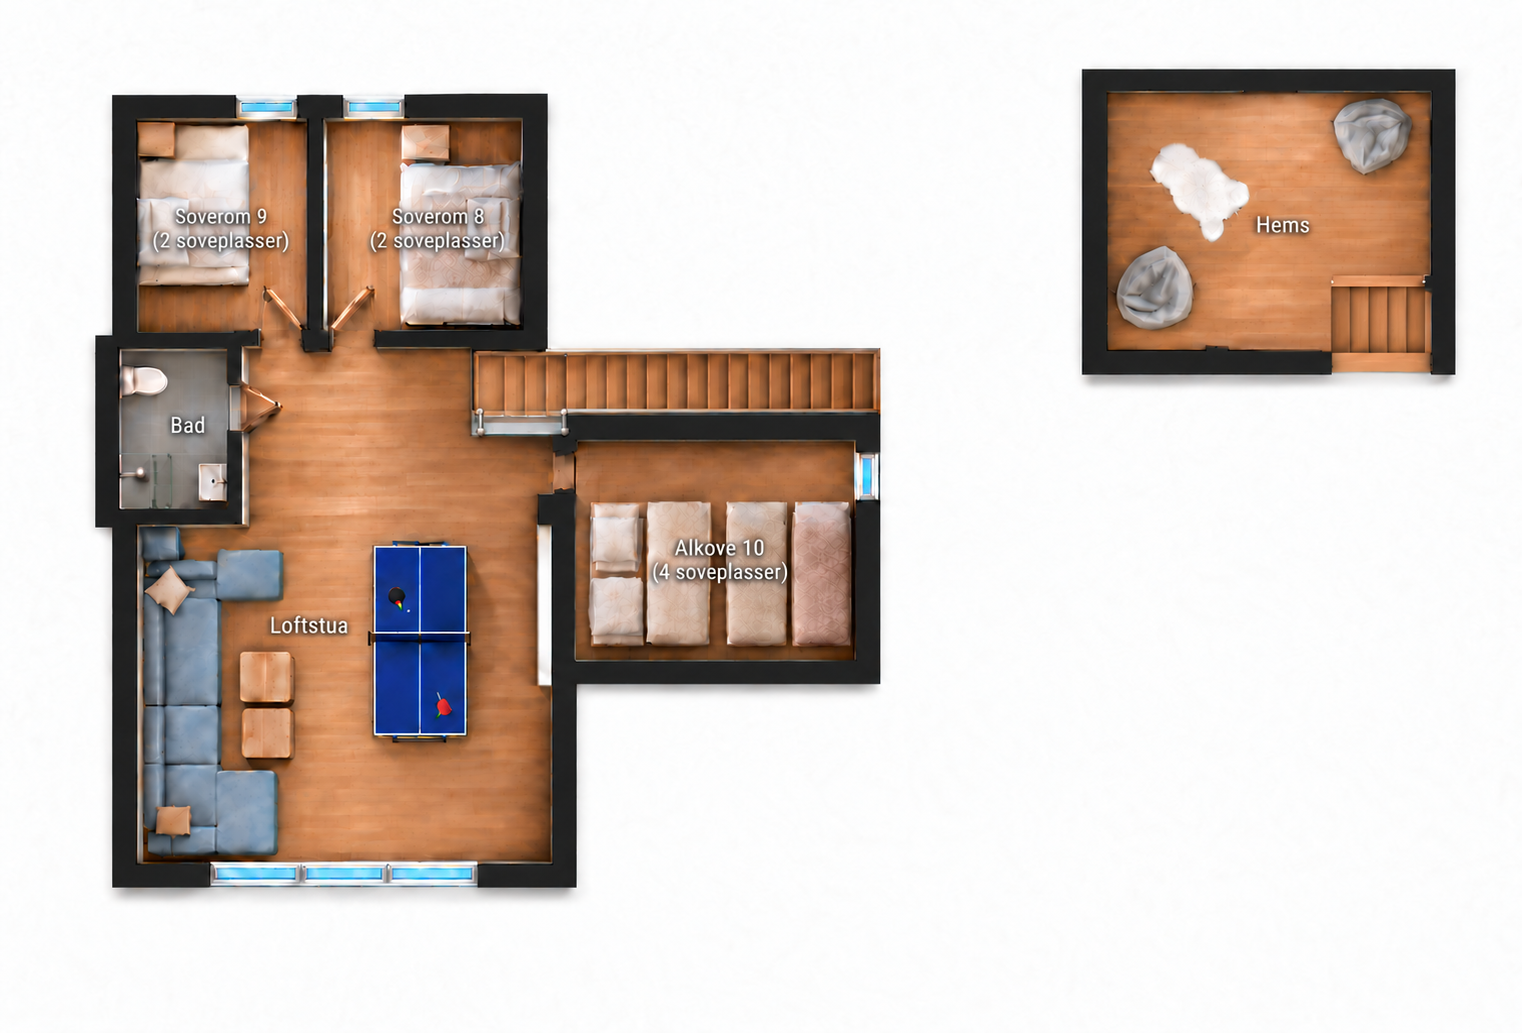
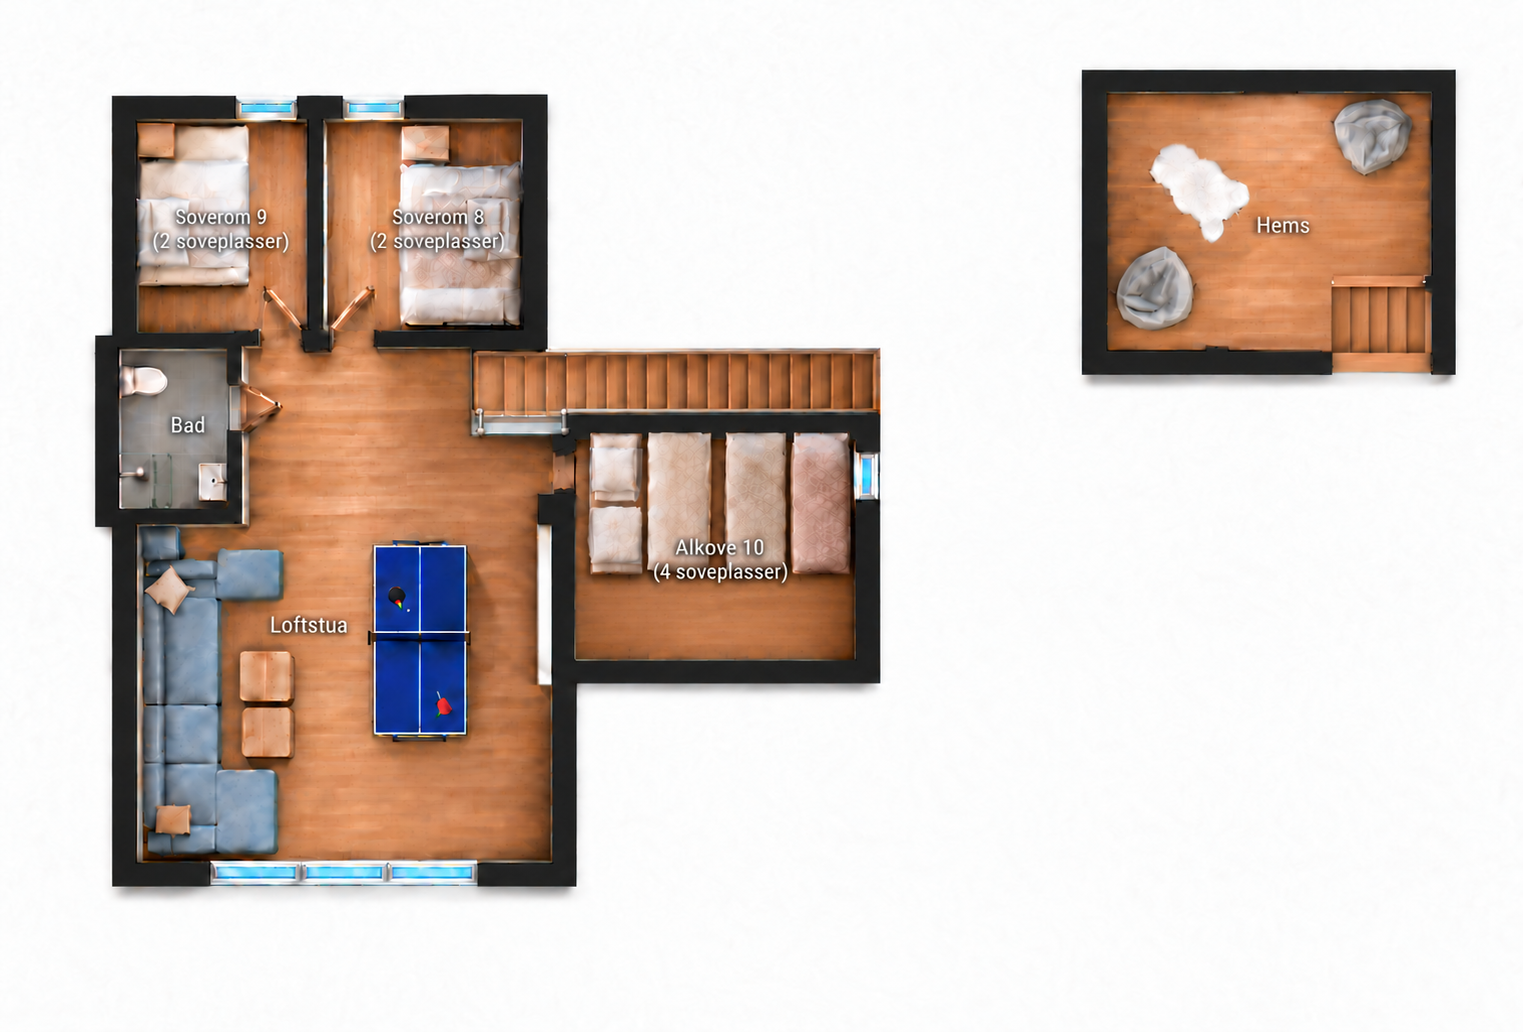
Match floor labels to loft and move alcove mattresses against wall

diff --git a/docs/floor-plans.md b/docs/floor-plans.md
@@ -1,5 +1,56 @@
 # Three floor plans
 
+## Mattresses against wall and loft typography reference, 30 October 2026
+
+The four shortened alcove mattresses now meet the upper inner wall, leaving free floor at their feet. Both languages updated. Main and lower floor labels now use the lighter, smaller lettering of the loft bedroom labels as the explicit reference. All room names, sleeping counts, ceiling annotations and furniture were visually checked. Built-in imagegen edit mode used for all six assets.
+
+Final files and generated sources:
+- `public/images/floor-plan-loft.png`: `exec-031a7066-ff24-4985-8705-eae7b2802c42.png`
+- `public/images/floor-plan-loft-en.png`: `exec-c01b518e-b26a-485a-9554-9e14e2cc7b24.png`
+- `public/images/floor-plan-main.png`: `exec-92a135f9-1760-4faf-9acb-e6820ee59688.png`
+- `public/images/floor-plan-main-en.png`: `exec-532896d6-13b9-4f69-8769-c6b9aab9c8b4.png`
+- `public/images/floor-plan-lower.png`: `exec-87fc714c-5858-4b01-bf9c-515387036179.png`
+- `public/images/floor-plan-lower-en.png`: `exec-d377548f-fd7d-450b-886d-ce13042db88a.png`
+
+Final prompts:
+
+### wallMattressNbPrompt
+
+```text
+Use case: precise-object-edit. Image1 is the full loft floor-plan EDIT TARGET. Only move the FOUR existing single mattresses in sleeping alcove10 UPWARD as a group until their upper/head ends touch the INSIDE of the upper horizontal wall directly below the long staircase (inner wall edge around y442 in this 1522px-wide full image). Eliminate the strip of empty wooden floor BETWEEN the mattress head ends and that upper wall. Keep current SHORT mattress lengths unchanged, widths, four distinct mattresses, ordering, bedding and pillows unchanged. Translation only: do NOT stretch or lengthen mattresses. Leave resulting free floor space BELOW mattress feet towards the lower alcove wall. Do NOT move walls, windows, staircase, glass railing, coffee tables, sofa, pingpong table, bathroom, bedrooms or separate Hems/mezzanine. Preserve all labels exactly, font and size, full canvas/framing/dimensions, materials and room geometry. Do not add red marks or new objects. Norwegian labels must remain: Soverom 9 (2 soveplasser), Soverom 8 (2 soveplasser), Bad, Loftstua, Alkove 10 (4 soveplasser), Hems. Keep the alcove label centered and legible.
+```
+
+### wallMattressEnPrompt
+
+```text
+Use case: precise-object-edit. Image1 is the full loft floor-plan EDIT TARGET. Only move the FOUR existing single mattresses in sleeping alcove10 UPWARD as a group until their upper/head ends touch the INSIDE of the upper horizontal wall directly below the long staircase (inner wall edge around y442 in this 1522px-wide full image). Eliminate the strip of empty wooden floor BETWEEN the mattress head ends and that upper wall. Keep current SHORT mattress lengths unchanged, widths, four distinct mattresses, ordering, bedding and pillows unchanged. Translation only: do NOT stretch or lengthen mattresses. Leave resulting free floor space BELOW mattress feet towards the lower alcove wall. Do NOT move walls, windows, staircase, glass railing, coffee tables, sofa, pingpong table, bathroom, bedrooms or separate Hems/mezzanine. Preserve all labels exactly, font and size, full canvas/framing/dimensions, materials and room geometry. Do not add red marks or new objects. English labels must remain: Bedroom 9 (Sleeps 2), Bedroom 8 (Sleeps 2), Bathroom, Loft lounge, Sleeping alcove 10 (Sleeps 4), Mezzanine. Keep the alcove label centered and legible.
+```
+
+### fontMatch-mainPrompt
+
+```text
+Use case: text-localization. Image1 is the EDIT TARGET floor plan. Image2 is the LOFT TYPOGRAPHY REFERENCE ONLY. Change ONLY typography of ALL existing labels in Image1 to match the regular-weight narrow white sans-serif in 'Soverom 8'/'Bedroom 8' on Image2, same subtle dark shadow and same letter height. Current Image1 labels are too large and too bold. Reduce ALL label lettering by approximately 25percent, use regular weight, consistent size everywhere (room names, sleeping counts, bathrooms, storage, sauna, terrace, ceiling descriptions). Target capital-letter height roughly16pixels in this full-resolution image, font nominally22px. Keep every label's EXACT wording, numbers, sleeping counts, language and location; don't add/remove text. Preserve ALL furniture, beds, 26 dining chairs on lower floor if present, table, walls, windows, stairs, doors, textures, dimensions, canvas and framing EXACTLY. NO changes to floor plan or objects. Image2 is style reference only; never import its rooms/furniture into Image1. Main floor: preserve bedroom5 sleeps2, bedroom6 sleeps3, BOTH hallway labels and FOUR ceiling annotations (English exact 'Vaulted Ceiling'; Norwegian exact 'åpen himling').
+```
+
+### fontMatch-main-enPrompt
+
+```text
+Use case: text-localization. Image1 is the EDIT TARGET floor plan. Image2 is the LOFT TYPOGRAPHY REFERENCE ONLY. Change ONLY typography of ALL existing labels in Image1 to match the regular-weight narrow white sans-serif in 'Soverom 8'/'Bedroom 8' on Image2, same subtle dark shadow and same letter height. Current Image1 labels are too large and too bold. Reduce ALL label lettering by approximately 25percent, use regular weight, consistent size everywhere (room names, sleeping counts, bathrooms, storage, sauna, terrace, ceiling descriptions). Target capital-letter height roughly16pixels in this full-resolution image, font nominally22px. Keep every label's EXACT wording, numbers, sleeping counts, language and location; don't add/remove text. Preserve ALL furniture, beds, 26 dining chairs on lower floor if present, table, walls, windows, stairs, doors, textures, dimensions, canvas and framing EXACTLY. NO changes to floor plan or objects. Image2 is style reference only; never import its rooms/furniture into Image1. Main floor: preserve bedroom5 sleeps2, bedroom6 sleeps3, BOTH hallway labels and FOUR ceiling annotations (English exact 'Vaulted Ceiling'; Norwegian exact 'åpen himling').
+```
+
+### fontMatch-lowerPrompt
+
+```text
+Use case: text-localization. Image1 is the EDIT TARGET floor plan. Image2 is the LOFT TYPOGRAPHY REFERENCE ONLY. Change ONLY typography of ALL existing labels in Image1 to match the regular-weight narrow white sans-serif in 'Soverom 8'/'Bedroom 8' on Image2, same subtle dark shadow and same letter height. Current Image1 labels are too large and too bold. Reduce ALL label lettering by approximately 25percent, use regular weight, consistent size everywhere (room names, sleeping counts, bathrooms, storage, sauna, terrace, ceiling descriptions). Target capital-letter height roughly16pixels in this full-resolution image, font nominally22px. Keep every label's EXACT wording, numbers, sleeping counts, language and location; don't add/remove text. Preserve ALL furniture, beds, 26 dining chairs on lower floor if present, table, walls, windows, stairs, doors, textures, dimensions, canvas and framing EXACTLY. NO changes to floor plan or objects. Image2 is style reference only; never import its rooms/furniture into Image1. Lower floor: preserve bedroom1&2 sleeps3, bedroom3 sleeps2, bedroom4&5 sleeps4, two storages, two bathrooms, sauna, toilet, hallway, utilityroom, terrace and EXACTLY26chairs (12 per long side and1each end).
+```
+
+### fontMatch-lower-enPrompt
+
+```text
+Use case: text-localization. Image1 is the EDIT TARGET floor plan. Image2 is the LOFT TYPOGRAPHY REFERENCE ONLY. Change ONLY typography of ALL existing labels in Image1 to match the regular-weight narrow white sans-serif in 'Soverom 8'/'Bedroom 8' on Image2, same subtle dark shadow and same letter height. Current Image1 labels are too large and too bold. Reduce ALL label lettering by approximately 25percent, use regular weight, consistent size everywhere (room names, sleeping counts, bathrooms, storage, sauna, terrace, ceiling descriptions). Target capital-letter height roughly16pixels in this full-resolution image, font nominally22px. Keep every label's EXACT wording, numbers, sleeping counts, language and location; don't add/remove text. Preserve ALL furniture, beds, 26 dining chairs on lower floor if present, table, walls, windows, stairs, doors, textures, dimensions, canvas and framing EXACTLY. NO changes to floor plan or objects. Image2 is style reference only; never import its rooms/furniture into Image1. Lower floor: preserve bedroom1&2 sleeps3, bedroom3 sleeps2, bedroom4&5 sleeps4, two storages, two bathrooms, sauna, toilet, hallway, utilityroom, terrace and EXACTLY26chairs (12 per long side and1each end).
+```
+
+
 ## Vaulted Ceiling and consistent typography, 30 October 2026
 
 Built-in imagegen updated `public/images/floor-plan-main.png`,
